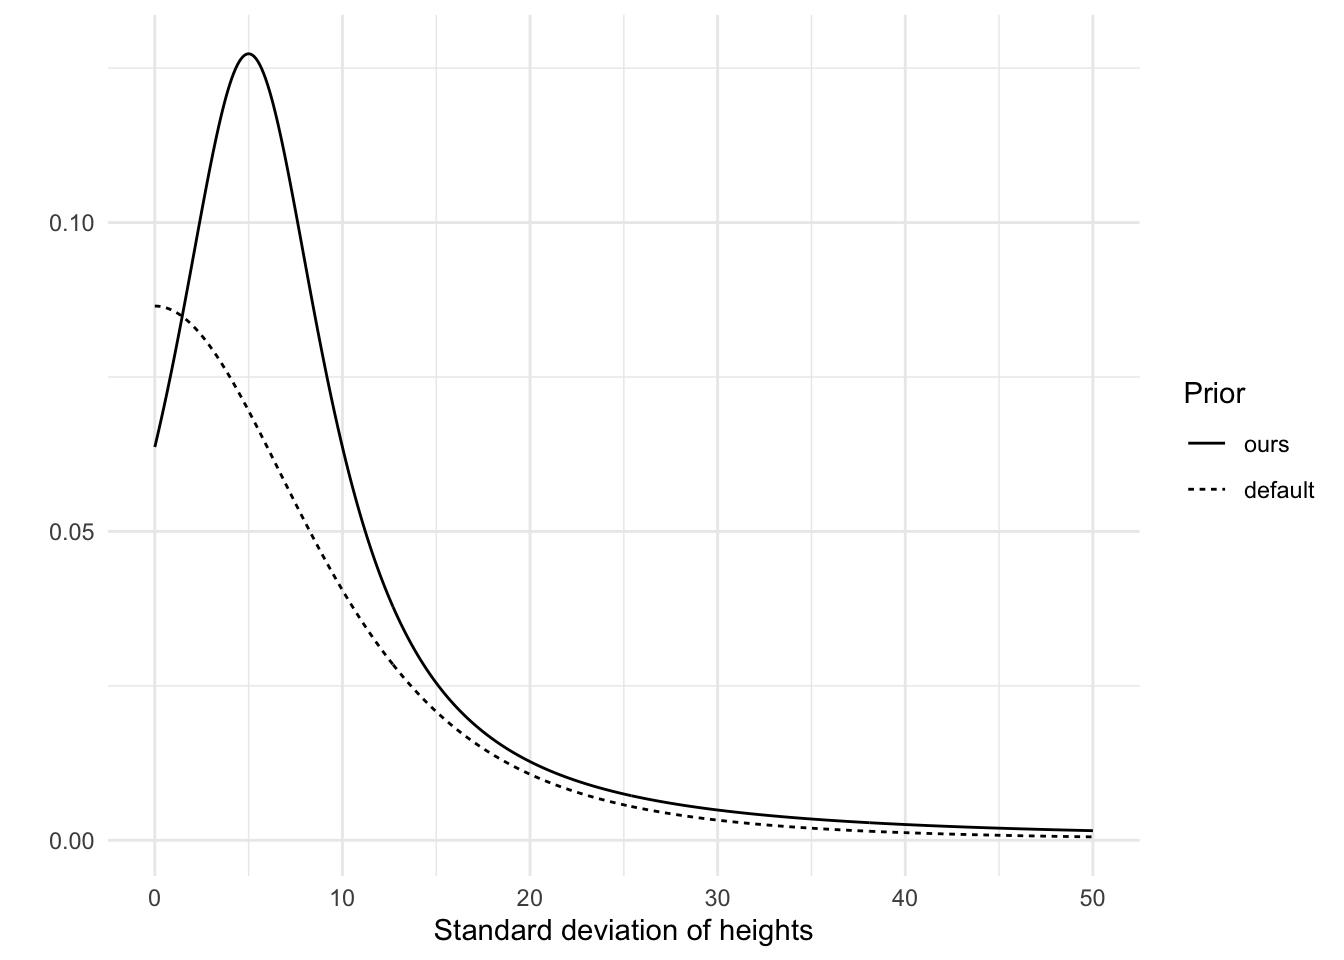
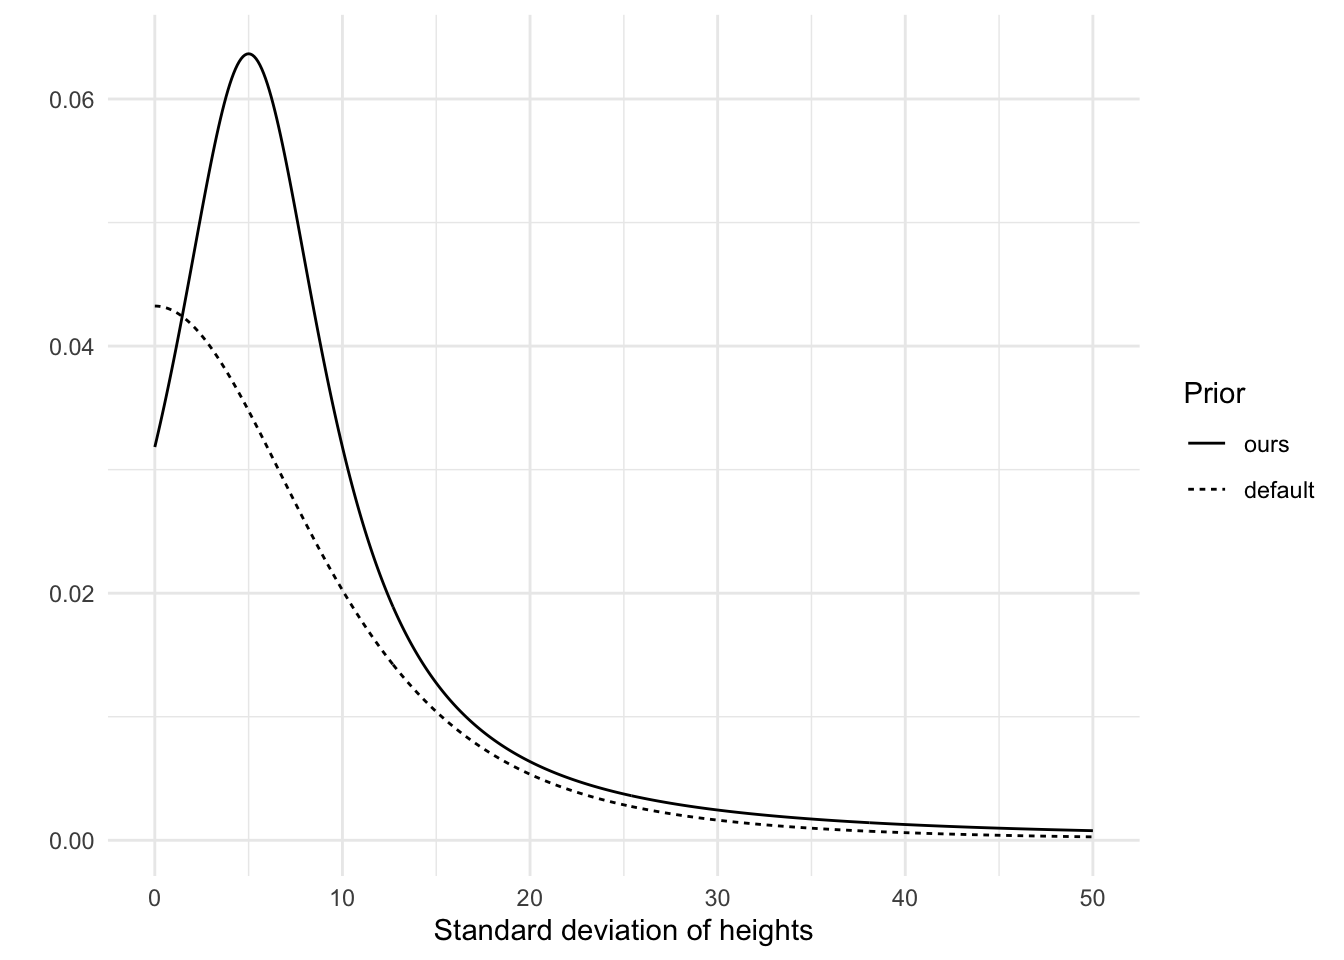
Fixed another issue in Bayesian post

diff --git a/docs/content/posts/5-my-bayesian-workflow-and-tutorial/my-bayesian-workflow-and-tutorial.html b/docs/content/posts/5-my-bayesian-workflow-and-tutorial/my-bayesian-workflow-and-tutorial.html
@@ -456,8 +456,8 @@ code span.wa { color: #60a0b0; font-weight: bold; font-style: italic; } /* Warni
 <summary>Code</summary>
 <div class="sourceCode cell-code" id="cb5"><pre class="sourceCode r code-with-copy"><code class="sourceCode r"><span id="cb5-1"><a href="#cb5-1" aria-hidden="true" tabindex="-1"></a>height_prior_sigma <span class="ot">&lt;-</span> <span class="fu">tibble</span>(</span>
 <span id="cb5-2"><a href="#cb5-2" aria-hidden="true" tabindex="-1"></a>  <span class="at">height_sigma =</span> <span class="fu">seq</span>(<span class="at">from =</span> <span class="dv">0</span>, <span class="at">to =</span> <span class="dv">50</span>, <span class="at">by =</span> .<span class="dv">1</span>),</span>
-<span id="cb5-3"><a href="#cb5-3" aria-hidden="true" tabindex="-1"></a>  <span class="at">default =</span> <span class="fu">dstudent_t</span>(height_sigma, <span class="at">df =</span> <span class="dv">3</span>, <span class="at">mu =</span> <span class="dv">0</span>, <span class="at">sigma =</span> <span class="fl">8.5</span>) <span class="sc">*</span> <span class="dv">2</span>,</span>
-<span id="cb5-4"><a href="#cb5-4" aria-hidden="true" tabindex="-1"></a>  <span class="at">ours =</span> <span class="fu">dstudent_t</span>(height_sigma, <span class="at">df =</span> <span class="dv">1</span>, <span class="at">mu =</span> <span class="dv">5</span>, <span class="at">sigma =</span> <span class="dv">5</span>) <span class="sc">*</span> <span class="dv">2</span></span>
+<span id="cb5-3"><a href="#cb5-3" aria-hidden="true" tabindex="-1"></a>  <span class="at">default =</span> <span class="fu">dstudent_t</span>(height_sigma, <span class="at">df =</span> <span class="dv">3</span>, <span class="at">mu =</span> <span class="dv">0</span>, <span class="at">sigma =</span> <span class="fl">8.5</span>),</span>
+<span id="cb5-4"><a href="#cb5-4" aria-hidden="true" tabindex="-1"></a>  <span class="at">ours =</span> <span class="fu">dstudent_t</span>(height_sigma, <span class="at">df =</span> <span class="dv">1</span>, <span class="at">mu =</span> <span class="dv">5</span>, <span class="at">sigma =</span> <span class="dv">5</span>) </span>
 <span id="cb5-5"><a href="#cb5-5" aria-hidden="true" tabindex="-1"></a>)</span>
 <span id="cb5-6"><a href="#cb5-6" aria-hidden="true" tabindex="-1"></a></span>
 <span id="cb5-7"><a href="#cb5-7" aria-hidden="true" tabindex="-1"></a>height_prior_sigma <span class="ot">&lt;-</span> <span class="fu">pivot_longer</span>(</span>
@@ -958,8 +958,8 @@ window.document.addEventListener("DOMContentLoaded", function (event) {
 <span id="cb15-142"><a href="#cb15-142" aria-hidden="true" tabindex="-1"></a><span class="co">#| fig-cap: Two priors for $\sigma$</span></span>
 <span id="cb15-143"><a href="#cb15-143" aria-hidden="true" tabindex="-1"></a>height_prior_sigma <span class="ot">&lt;-</span> <span class="fu">tibble</span>(</span>
 <span id="cb15-144"><a href="#cb15-144" aria-hidden="true" tabindex="-1"></a>  <span class="at">height_sigma =</span> <span class="fu">seq</span>(<span class="at">from =</span> <span class="dv">0</span>, <span class="at">to =</span> <span class="dv">50</span>, <span class="at">by =</span> .<span class="dv">1</span>),</span>
-<span id="cb15-145"><a href="#cb15-145" aria-hidden="true" tabindex="-1"></a>  <span class="at">default =</span> <span class="fu">dstudent_t</span>(height_sigma, <span class="at">df =</span> <span class="dv">3</span>, <span class="at">mu =</span> <span class="dv">0</span>, <span class="at">sigma =</span> <span class="fl">8.5</span>) <span class="sc">*</span> <span class="dv">2</span>,</span>
-<span id="cb15-146"><a href="#cb15-146" aria-hidden="true" tabindex="-1"></a>  <span class="at">ours =</span> <span class="fu">dstudent_t</span>(height_sigma, <span class="at">df =</span> <span class="dv">1</span>, <span class="at">mu =</span> <span class="dv">5</span>, <span class="at">sigma =</span> <span class="dv">5</span>) <span class="sc">*</span> <span class="dv">2</span></span>
+<span id="cb15-145"><a href="#cb15-145" aria-hidden="true" tabindex="-1"></a>  <span class="at">default =</span> <span class="fu">dstudent_t</span>(height_sigma, <span class="at">df =</span> <span class="dv">3</span>, <span class="at">mu =</span> <span class="dv">0</span>, <span class="at">sigma =</span> <span class="fl">8.5</span>),</span>
+<span id="cb15-146"><a href="#cb15-146" aria-hidden="true" tabindex="-1"></a>  <span class="at">ours =</span> <span class="fu">dstudent_t</span>(height_sigma, <span class="at">df =</span> <span class="dv">1</span>, <span class="at">mu =</span> <span class="dv">5</span>, <span class="at">sigma =</span> <span class="dv">5</span>) </span>
 <span id="cb15-147"><a href="#cb15-147" aria-hidden="true" tabindex="-1"></a>)</span>
 <span id="cb15-148"><a href="#cb15-148" aria-hidden="true" tabindex="-1"></a></span>
 <span id="cb15-149"><a href="#cb15-149" aria-hidden="true" tabindex="-1"></a>height_prior_sigma <span class="ot">&lt;-</span> <span class="fu">pivot_longer</span>(</span>

diff --git a/docs/index.html b/docs/index.html
@@ -298,7 +298,7 @@ No matching items
 <h2 data-anchor-id="blog-posts">Blog posts</h2>
 <div id="listing-posts" class="quarto-listing quarto-listing-container-default">
 <div class="list quarto-listing-default">
-<div class="quarto-post image-right" data-index="0" data-categories="statistics,tutorial,Bayesian statistics,regression" data-listing-date-sort="1669244400000" data-listing-file-modified-sort="1669366687339" data-listing-reading-time-sort="13.26">
+<div class="quarto-post image-right" data-index="0" data-categories="statistics,tutorial,Bayesian statistics,regression" data-listing-date-sort="1669244400000" data-listing-file-modified-sort="1669367338753" data-listing-reading-time-sort="13.245">
 <div class="body">
 <a href="./content/posts/5-my-bayesian-workflow-and-tutorial/my-bayesian-workflow-and-tutorial.html">
 <h3 class="no-anchor listing-title">

diff --git a/docs/content/blog.html b/docs/content/blog.html
@@ -210,7 +210,7 @@ ul.task-list li input[type="checkbox"] {
     </div>
 </div>
 <div class="list quarto-listing-default">
-<div class="quarto-post image-right" data-index="0" data-categories="statistics,tutorial,Bayesian statistics,regression" data-listing-date-sort="1669244400000" data-listing-file-modified-sort="1669366687339" data-listing-reading-time-sort="13.26">
+<div class="quarto-post image-right" data-index="0" data-categories="statistics,tutorial,Bayesian statistics,regression" data-listing-date-sort="1669244400000" data-listing-file-modified-sort="1669367338753" data-listing-reading-time-sort="13.245">
 <div class="body">
 <a href="../content/posts/5-my-bayesian-workflow-and-tutorial/my-bayesian-workflow-and-tutorial.html">
 <h3 class="no-anchor listing-title">
